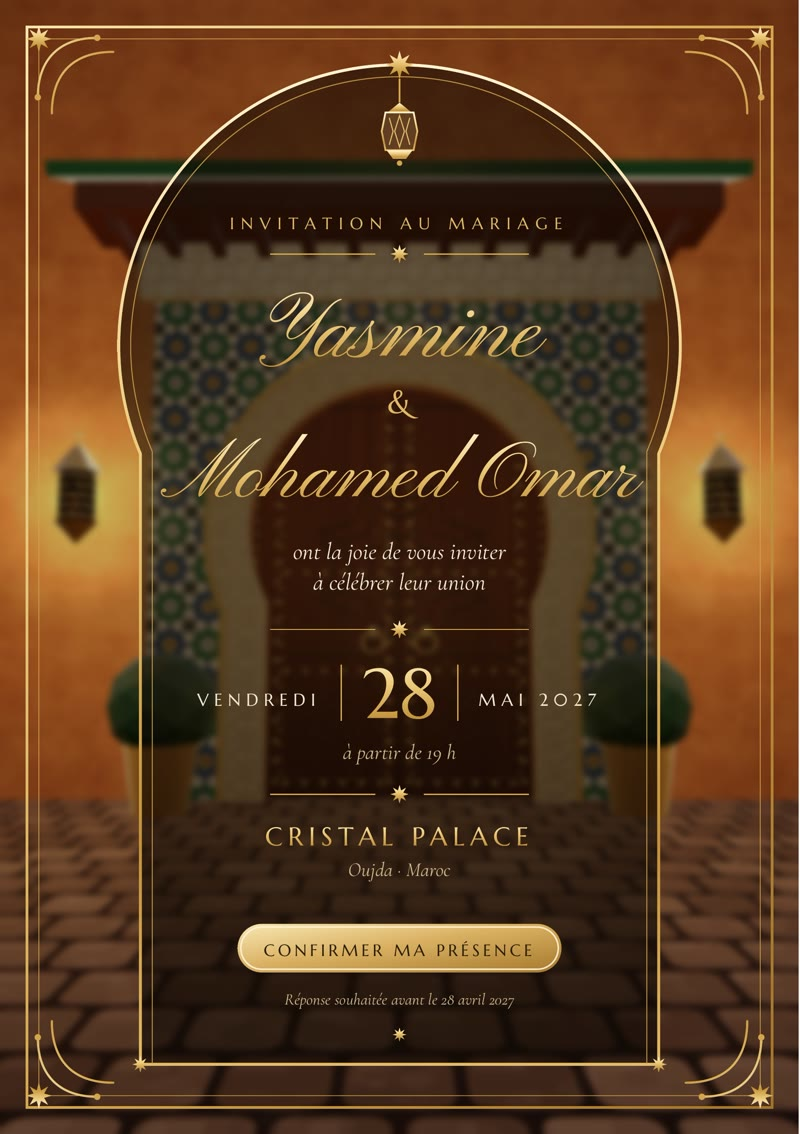
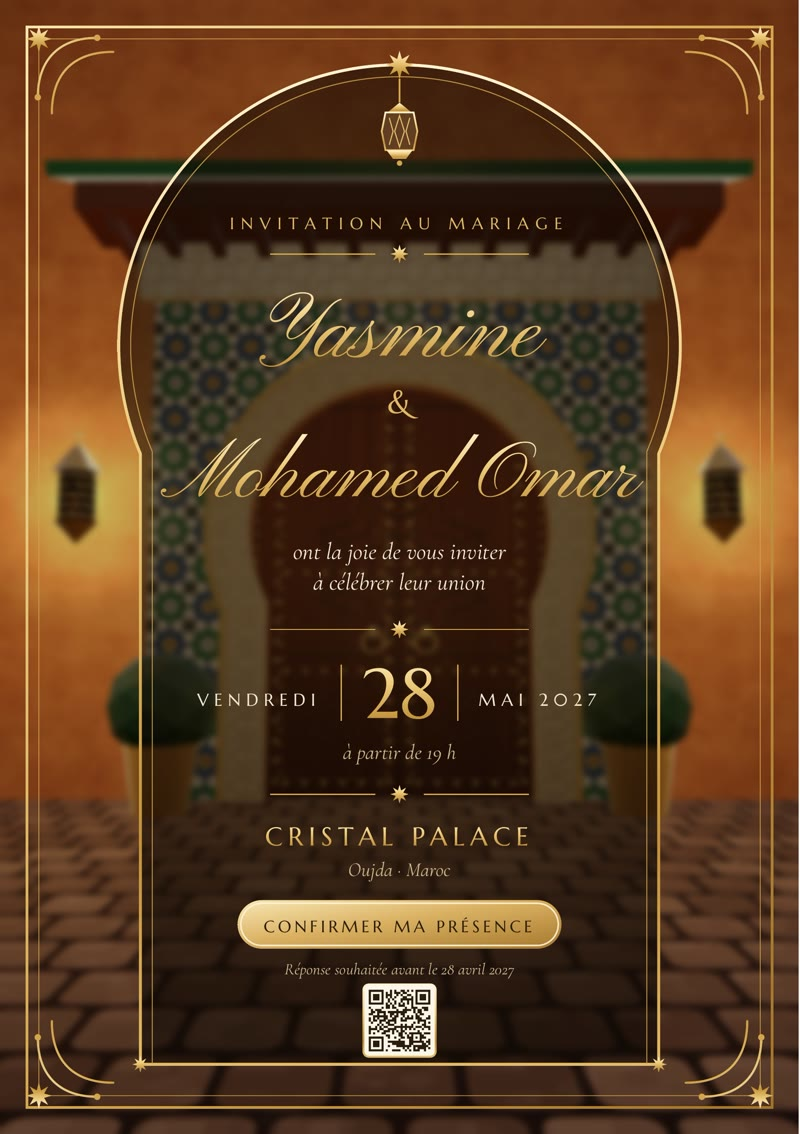
Aperçu du lien : invitation élégance finale

Changed region(s): [[0.2812, 0.7716, 0.7188, 0.9568]]

diff --git a/carte/index.html b/carte/index.html
@@ -9,7 +9,7 @@
 <meta property="og:url" content="https://momargh.github.io/mariage/carte/">
 <meta property="og:title" content="Yasmine &amp; Mohamed Omar — Invitation au mariage">
 <meta property="og:description" content="Vendredi 28 mai 2027, à partir de 19 h · Cristal Palace, Oujda. Touchez pour répondre : Oui ou Non.">
-<meta property="og:image" content="https://momargh.github.io/mariage/preview.jpg?v=6">
+<meta property="og:image" content="https://momargh.github.io/mariage/preview.jpg?v=7">
 <meta property="og:image:width" content="800"><meta property="og:image:height" content="1134">
 <meta name="twitter:card" content="summary_large_image">
 <meta name="theme-color" content="#0a0806">

diff --git a/index.html b/index.html
@@ -8,7 +8,7 @@
 <meta property="og:url" content="https://momargh.github.io/mariage/">
 <meta property="og:title" content="Yasmine &amp; Mohamed Omar — Invitation au mariage">
 <meta property="og:description" content="Vendredi 28 mai 2027, à partir de 19 h · Cristal Palace, Oujda. Ouvrez la porte et confirmez votre présence.">
-<meta property="og:image" content="https://momargh.github.io/mariage/preview.jpg?v=6">
+<meta property="og:image" content="https://momargh.github.io/mariage/preview.jpg?v=7">
 <meta property="og:image:width" content="800">
 <meta property="og:image:height" content="1134">
 <meta name="twitter:card" content="summary_large_image">
